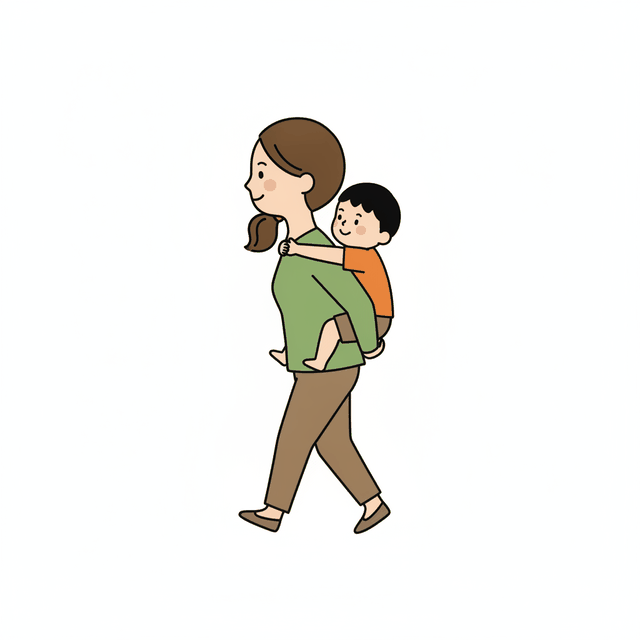
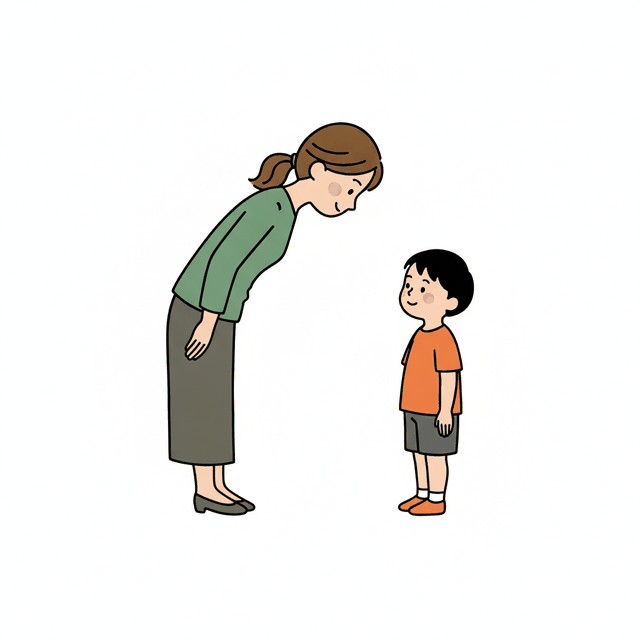
fix(qab): 콘텐츠 검토 4건 — 샤워기·sg_11·sg_09·se_16
- 샤워기 아이콘 → 무지개(범주 없음)
- sg_11(가역문): 모자 방향이 어색해 정답·오답 그림 재생성
- sg_09(가역문): "업다"(부자연스러운 자세) → "인사하다"로 verb 교체.
  정답=엄마가 숙여 인사, 오답=아이가 숙여 인사·엄마는 서서 받음.
  관계절 짝(sg_09_rc_s/rc_o)도 새 문장으로 갱신
- se_16(내포절): "나무에 오르다" 그림이 밑동만 잡은 자세라 정답 그림 재생성

모든 그림 교체는 후보를 먼저 보여주고 승인받은 뒤 적용했다.

Claude-Session: https://claude.ai/code/session_01Yb8949BQt5TeYUHQEUEzqv

Changed region(s): [[0.25, 0.1562, 0.75, 0.8438]]

diff --git a/frontend/src/memory-link/patient/quiz/infrastructure/QabItemBank.ts b/frontend/src/memory-link/patient/quiz/infrastructure/QabItemBank.ts
@@ -237,13 +237,12 @@ export const WORD_CATEGORY: Record<string, string | null> = {
   camera: 'appliance', headphone: 'appliance',
   // 주방 3
   kettle: 'kitchen', knife: 'kitchen', spoon: 'kitchen',
-  // 욕실 4
+  // 욕실 3
   mirror: 'bathroom', soap: 'bathroom', toothbrush: 'bathroom',
-  shower: 'bathroom',
-  // 연장 4
+    // 연장 4
   hammer: 'tool', ladder: 'tool', screwdriver: 'tool',
   flashlight: 'tool',
-  // ── 범주 없음 9 ───────────────────────────────────────────────
+  // ── 범주 없음 10 ──────────────────────────────────────────────
   //
   // 서로 한 무리가 아니다. 예전에는 이 아홉을 `'object'`라는 이름의 범주로 묶어
   // 뒀는데, 그러면 `buildControlledChoices`가 가방의 "같은 범주 오답"으로 풍선·돌을
@@ -256,7 +255,7 @@ export const WORD_CATEGORY: Record<string, string | null> = {
   // 음운 오답으로 넘어간다(아래 buildControlledChoices).
   //
   // "다른 하나"(연습)로는 얼마든지 쓴다 — 동물 셋 사이의 열쇠는 명확하다.
-  bag: null, balloon: null, basket: null, candle: null,
+  bag: null, balloon: null, basket: null, candle: null, rainbow: null,
   clock: null, key: null, mailbox: null, rock: null,
   umbrella: null,
 };

diff --git a/TODOS.md b/TODOS.md
@@ -1,9 +1,26 @@
 # TODOS
 
-## 다음 할 일 (2026-09-03 기준)
+## 다음 할 일 (2026-09-05 기준)
 
-머지 대기: #132(내포절). main `79ec846`(#128~#131 반영).
-린트 실측 — 프론트 14건(전부 기존 부채), 백엔드 0건.
+머지 대기: 이 PR(콘텐츠 검토 수정 4건). 아래 세 항목은 이 브랜치에서 처리했다.
+
+- **낱말 아이콘**: 샤워기 → 무지개(범주 없음, 개수 그대로).
+- **sg_11(가역문)**: 모자를 씌우는 방향이 어색해 정답·오답 그림을 다시 그렸다
+  (모자가 이미 제대로 얹힌 채 앞챙 방향이 맞도록).
+- **sg_09(가역문)**: "업다"(업기 자세가 부자연스럽다는 지적) → "인사하다"로 verb를
+  통째로 바꿨다. 정답=엄마가 숙여 인사, 오답=아이가 숙여 인사·엄마는 꼿꼿이 서서
+  받는 모습(첫 시도는 둘 다 숙이는 그림이 나와 재검토 후 다시 그렸다). 관계절 짝
+  (`sg_09_rc_s`/`sg_09_rc_o`)도 "아이에게/아이가 인사하는 엄마가" 최소쌍으로 새로 썼다.
+- **se_16(내포절)**: "소년이 나무에 오르고 있다" 그림이 밑동만 잡은 자세라 오르는
+  것처럼 안 보였다 — 더 위까지 오른 자세로 정답 그림만 다시 그렸다(오답은 그대로,
+  참조로 씀).
+
+모든 이미지 교체는 사용자에게 후보를 먼저 보여주고 승인받은 뒤에만 적용했다
+(적용 전 검토 원칙 — 한 번 순서를 어겨서 되돌린 적이 있다).
+
+머지 대기(이전 세대): #132(내포절)는 이후 main에 반영됨. 이 브랜치는 그 이후
+main 스냅숏(`79ec846`, #128~#131 반영)에서 갈라졌다.
+린트 실측 — 프론트 14건(전부 기존 부채, 이 PR과 무관한 파일), 백엔드 0건.
 
 **QAB 풀 확장은 끝났다.** 일곱 검사가 전부 조회 창(30일) 안에서 안 겹친다(아래 절).
 
